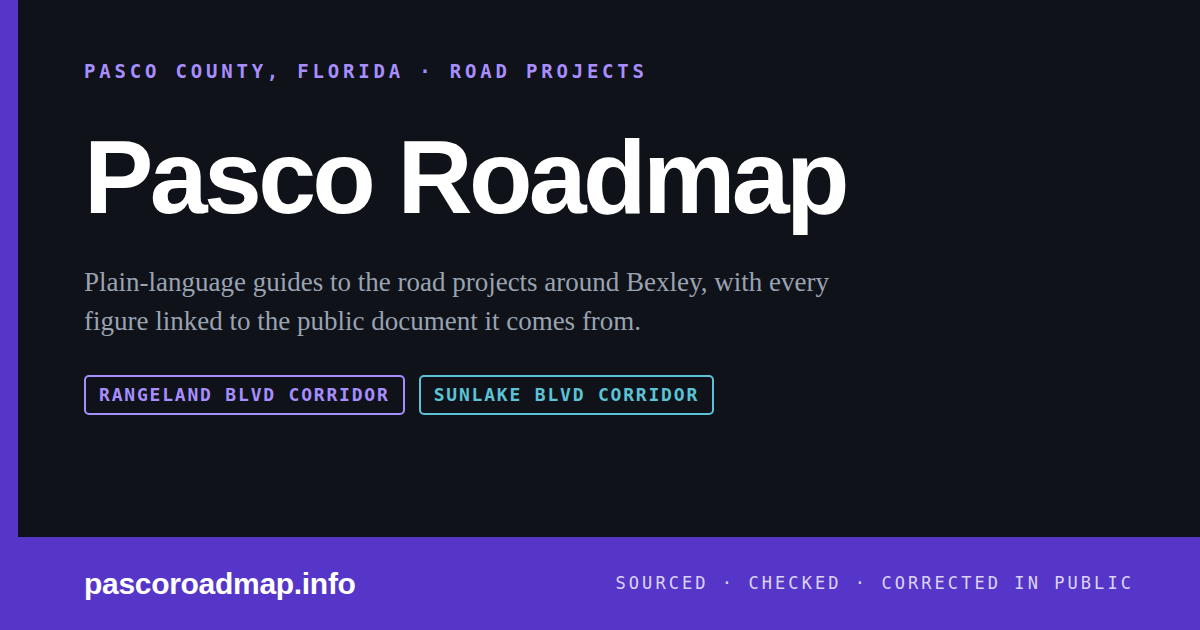
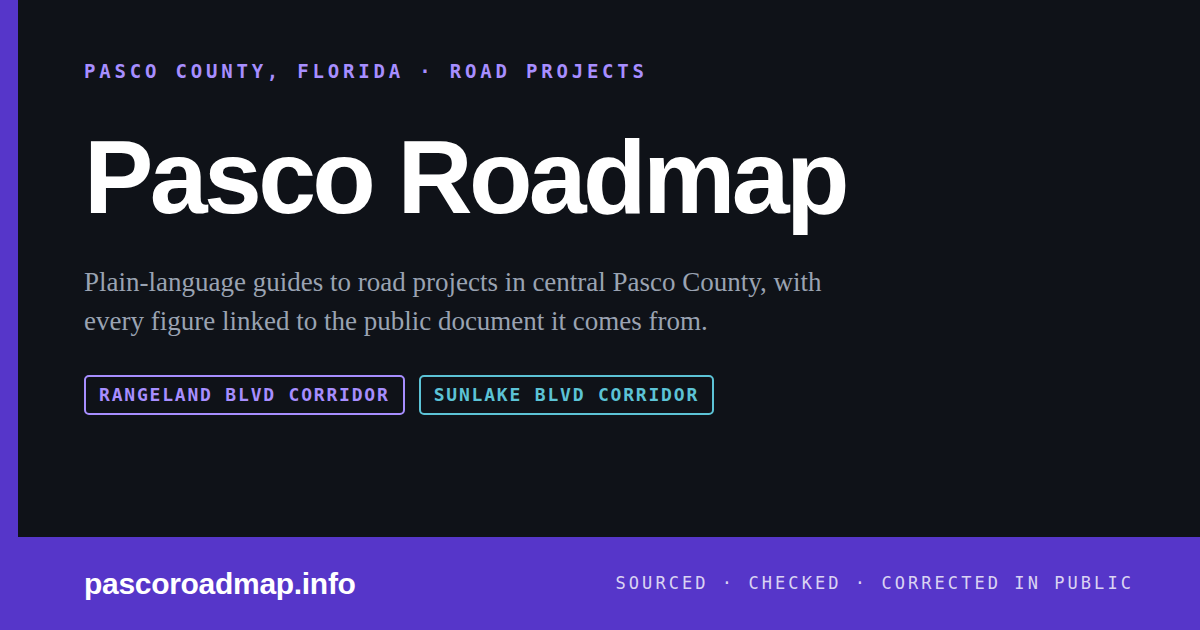
Wording for all Pasco residents; Rangeland intro removed, date and box heading updated
Bexley-only wording (the home page's top line, the Rangeland title,
top line, heading and link-preview descriptions and card) now speaks to
Pasco residents. At Patrick's request the Rangeland introduction is
removed, the Updated date moves to 29 September 2026, and the meeting
box heading reads "Comments for this project are open until October 8".
Link-preview cards redrawn.

Claude-Session: https://claude.ai/code/session_01HS46vtdzrRz2P76QDPBLFB

Changed region(s): [[0.0617, 0.4222, 0.7092, 0.5429]]

diff --git a/tools/og-card.html b/tools/og-card.html
@@ -32,7 +32,7 @@
   <div class="main">
     <p class="eyebrow" id="eyebrow">Pasco County, Florida &#183; Road projects</p>
     <h1 id="title">Pasco Roadmap</h1>
-    <p class="sub" id="sub">Plain-language guides to the road projects around Bexley, with every figure linked to the public document it comes from.</p>
+    <p class="sub" id="sub">Plain-language guides to road projects in central Pasco County, with every figure linked to the public document it comes from.</p>
     <div class="tags" id="tags"></div>
   </div>
   <div class="bar"><b id="note">pascoroadmap.info</b><span id="right">Sourced &#183; checked &#183; corrected in public</span></div>

diff --git a/README_3.md b/README_3.md
@@ -1,6 +1,6 @@
 # Pasco Roadmap (formerly the Rangeland Boulevard Guide)
 
-A plain-language guide to the Rangeland Boulevard Route Study for Bexley neighbors,
+A plain-language guide to Pasco County road projects, starting with the Rangeland Boulevard Route Study,
 built from Pasco County, Pasco MPO and FDOT public documents.
 
 Live at **https://pascoroadmap.info/** (formerly patricka3s.github.io/rangeland/, which forwards here).
